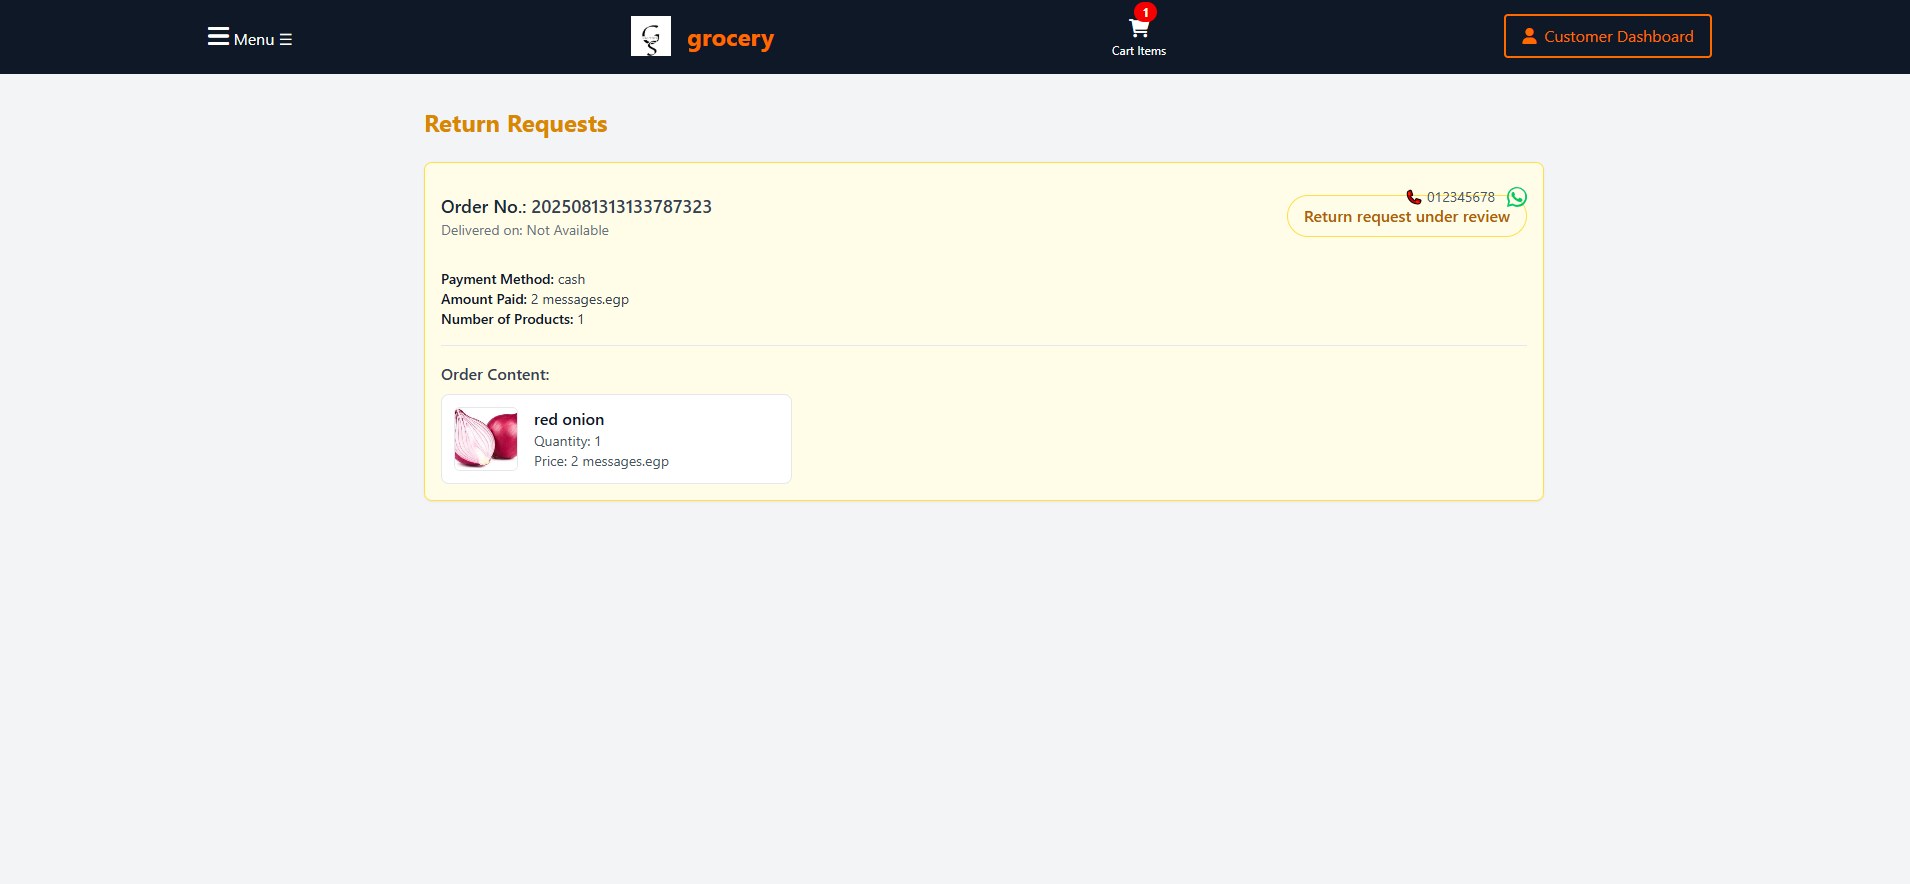
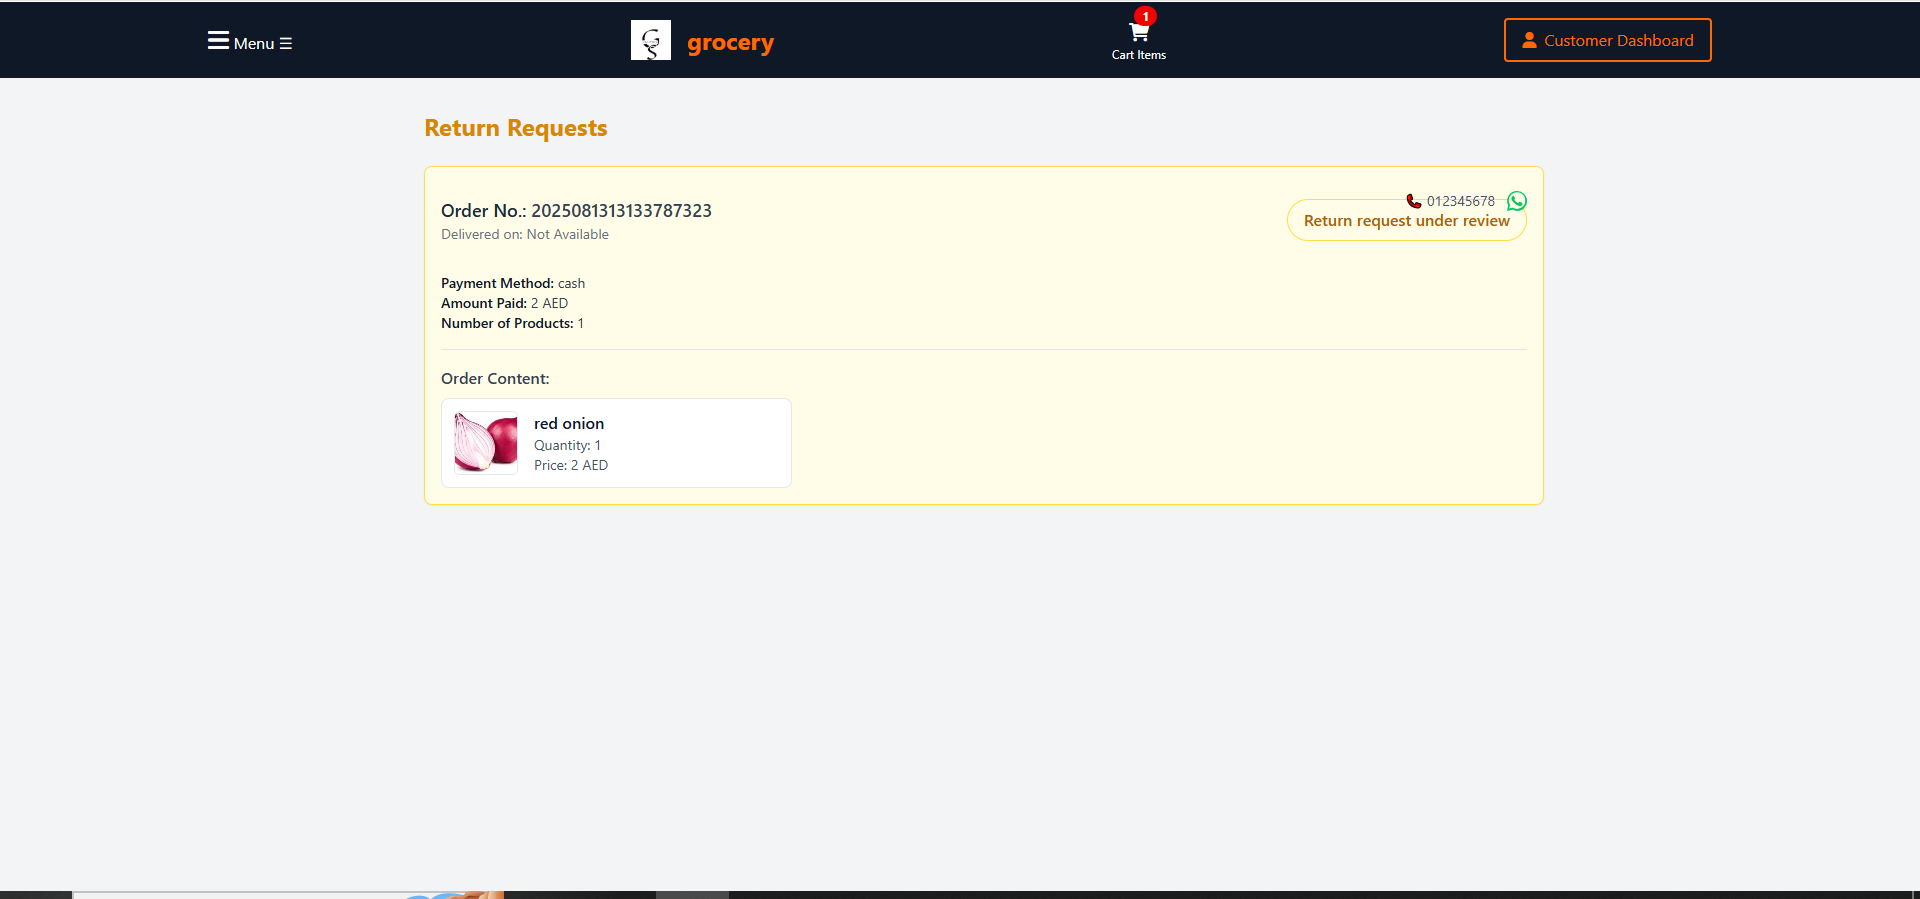
improve product viewer

diff --git a/resources/views/users/products/view.blade.php b/resources/views/users/products/view.blade.php
@@ -78,11 +78,11 @@
     @endif
 
         <div class="md:w-1/2">
-            <p class="text-lg font-semibold mb-2">💰 {{ __('messages.price') }}: <span class="text-green-600">{{ $product['price'] }} {{ __('messages.currency') }}</span></p>
+            <p class="text-lg font-semibold mb-2">💰 {{ __('messages.price') }}: <span class="text-green-600">{{ $product['price'] }} {{ __('messages.aed') }}</span></p>
             @if($product['discount'] > 0)
                 <p class="text-lg font-semibold text-red-500">
                     🔻 {{ __('messages.discount') }}: <span class="line-through text-gray-500">{{ $product['price'] }}</span>
-                    {{ __('messages.now_at') }} {{ $product['price'] - $product['discount'] }} {{ __('messages.currency') }}
+                    {{ __('messages.now_at') }} {{ $product['price'] - $product['discount'] }} {{ __('messages.aed') }}
                 </p>
             @endif
             <p class="text-md mt-2">📦 {{ __('messages.available_quantity') }}: <strong>{{ $product['available_quantity'] }}</strong></p>
